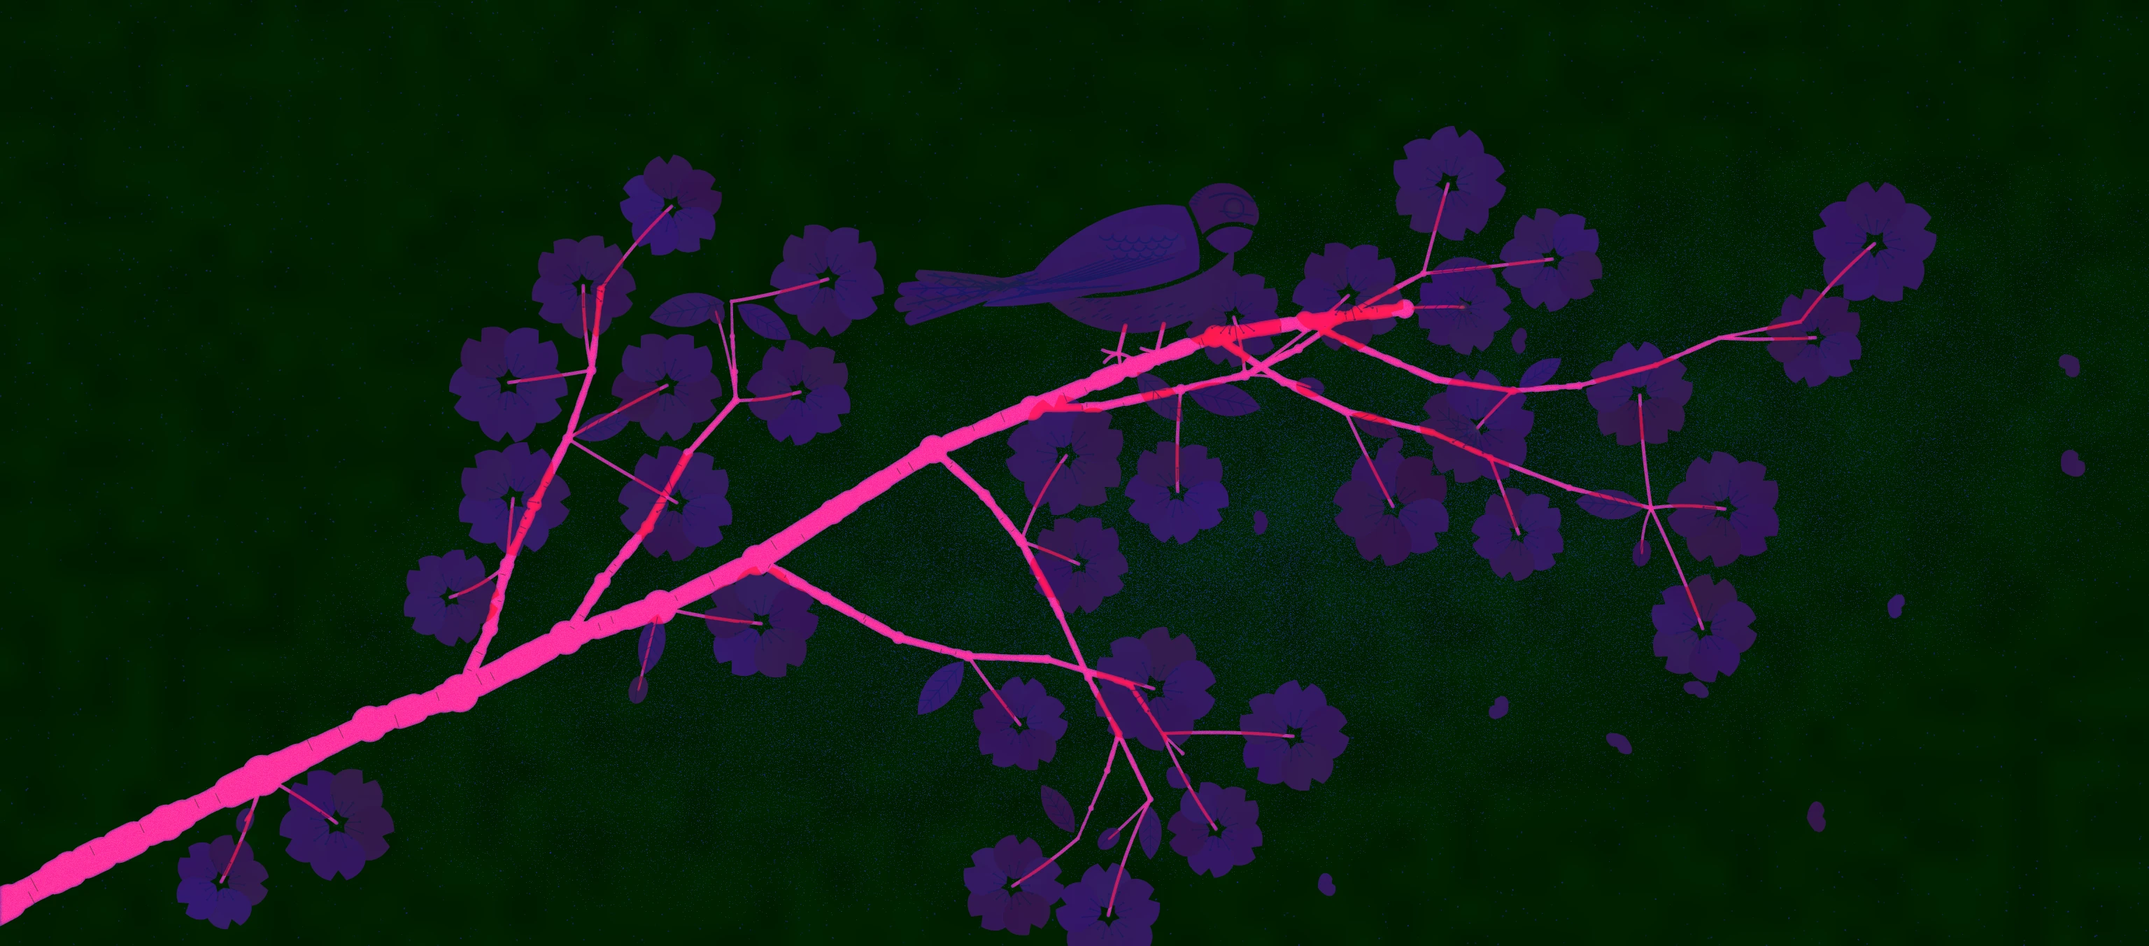
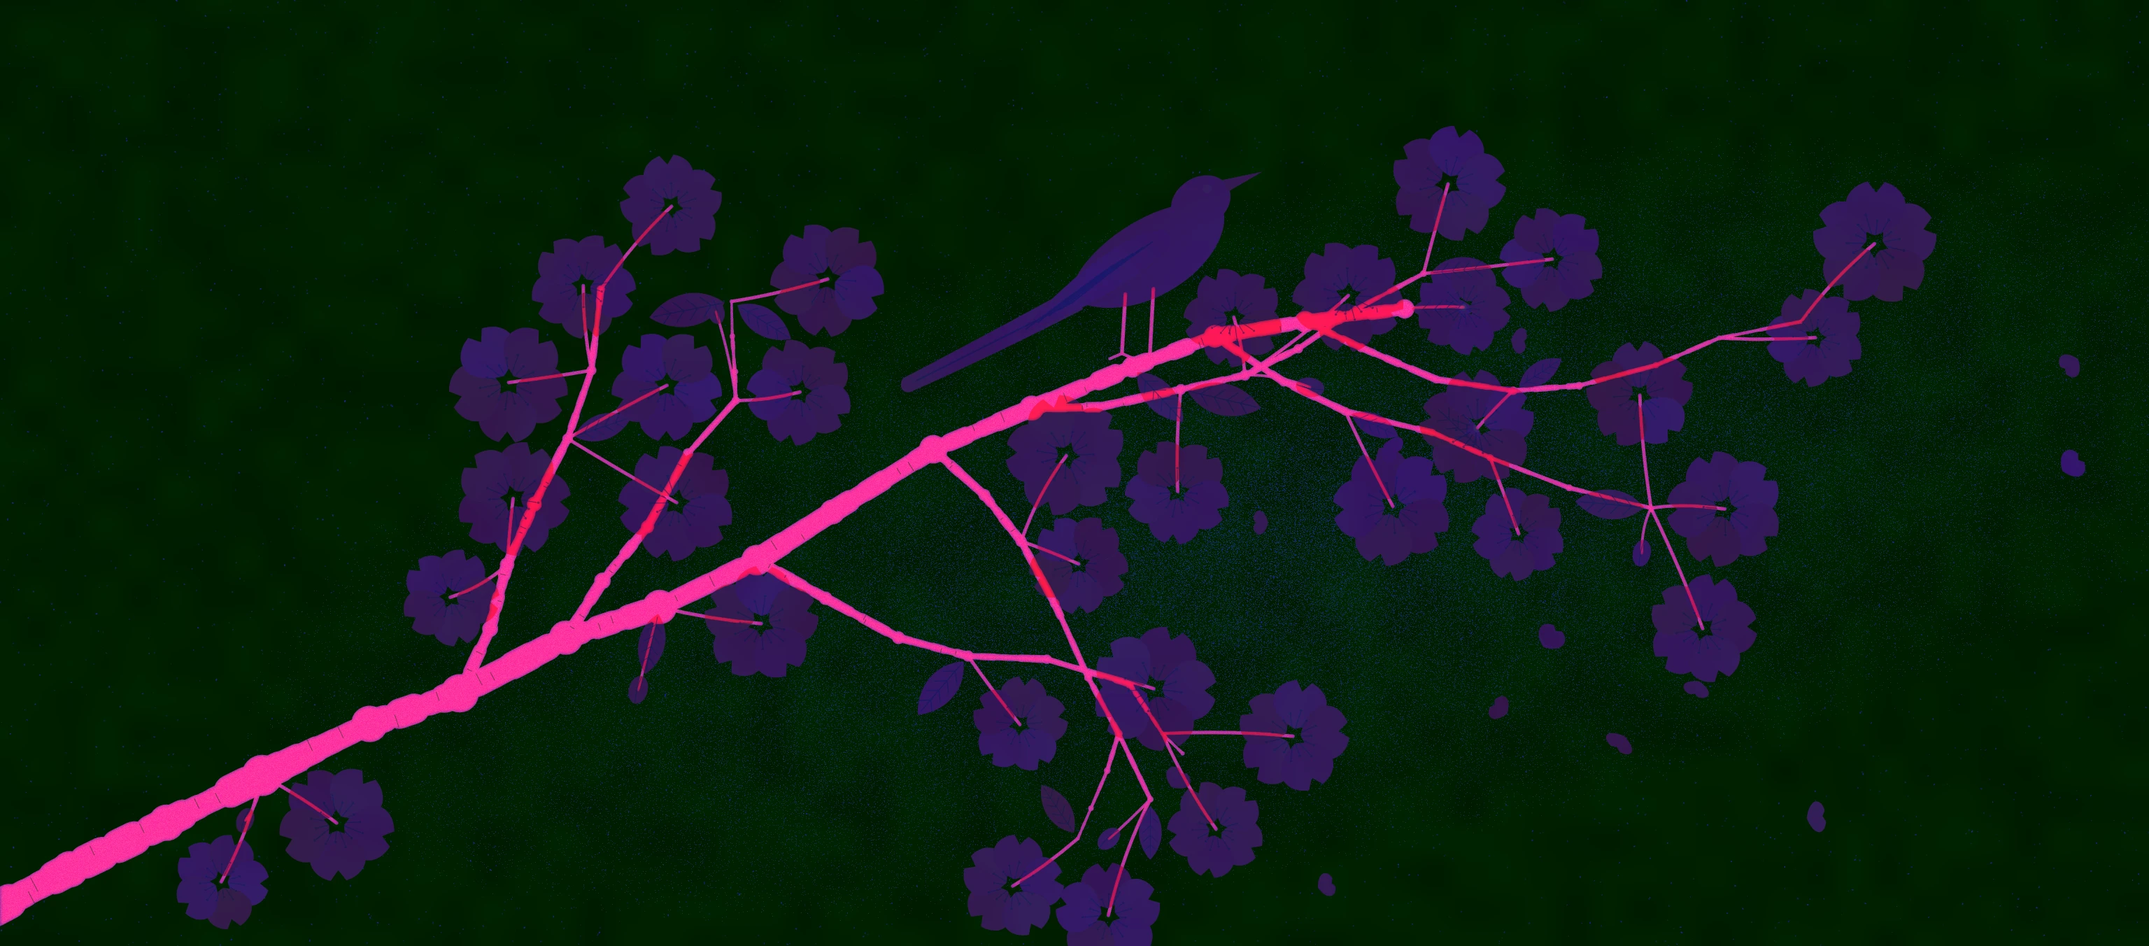
将棋 山桜盤：鶯を螺鈿らしい細身のシルエットに（大きな貝数片、彫りは控えめ）
Claude-Session: https://claude.ai/code/session_01EiWRAXZcgDnoypvsbtaRDZ

diff --git a/atlas/tools/shogi-tex.html b/atlas/tools/shogi-tex.html
@@ -661,45 +661,22 @@
     return P;
   }
   // 鶯: plump body, head, wing and tail as separate shell pieces, an eye and beak in black, engraved feathers
-  function uguisu(m, x, y, s, dir, mk) {   // (2026-11-13, the user: 本物らしく) a bush warbler perched: every part its own cut of shell —
-    // the head, the back, the pale throat and belly, the wing in three rows (coverts, secondaries, primaries), the tail feather by
-    // feather — and the plumage engraved (毛彫り): scalloped coverts, the vanes of the long feathers, the brow line, ticks on the
-    // breast; the eye and the slender bill in black lacquer; the legs and toes in gold on the bough (mk: the 蒔絵 masks)
-    const T = (g, f) => { g.save(); g.translate(x, y); g.scale(dir * s, s); f(g); g.restore(); };
+  function uguisu(m, x, y, s, dir, mk) {   // (2026-11-13 v3, the user's reference: 螺鈿の鶯) a slender warbler cut from a few large pieces of shell —
+    // the silhouette and the shell's own play of colour carry it: head and body one piece, the folded wing, the long narrow tail, a fine
+    // bill; perched with its head raised, the tail hanging below the bough. Only a little engraving (the wing's feathers, the tail's shaft);
+    // the eye a dot of black lacquer; thin gold legs (mk: the 蒔絵 masks)
+    const TILT = -.42, T = (g, f) => { g.save(); g.translate(x, y); g.scale(dir * s, s); g.rotate(TILT); f(g); g.restore(); };
     const P = (kind, f) => piece(m, kind, g => T(g, f));
-    // tail: four feathers fanning a little, the outer ones shorter
-    [[-128, 30, 7], [-134, 22, 7.5], [-132, 13, 7], [-122, 5, 6]].forEach(([tx, ty, w], i) => P(2, g => { const bx = -50, by = 4 + i * 3.4; g.beginPath(); g.moveTo(bx, by - 3); g.quadraticCurveTo((bx + tx) / 2, (by + ty) / 2 - w, tx, ty - w * .5); g.quadraticCurveTo(tx - 5, ty + 1, tx + 1, ty + w * .6); g.quadraticCurveTo((bx + tx) / 2, (by + ty) / 2 + w * .8, bx, by + 3.4); g.closePath(); }));
-    // the pale underside: throat, breast, belly, under-tail
-    P(4, g => { g.beginPath(); g.moveTo(58, -10); g.bezierCurveTo(60, 12, 44, 34, 8, 38); g.bezierCurveTo(-18, 40, -40, 30, -52, 16); g.bezierCurveTo(-30, 20, 10, 20, 40, 4); g.bezierCurveTo(48, 0, 54, -6, 58, -10); g.closePath(); });
-    // the back and flank
-    P(2, g => { g.beginPath(); g.moveTo(30, -34); g.bezierCurveTo(4, -40, -34, -24, -56, 2); g.bezierCurveTo(-56, 8, -54, 12, -50, 14); g.bezierCurveTo(-28, 17, 10, 17, 38, 2); g.bezierCurveTo(40, -10, 36, -24, 30, -34); g.closePath(); });
-    // the head: crown and nape, the cheek below the eye a separate paler piece
-    P(2, g => { g.beginPath(); g.moveTo(32, -36); g.bezierCurveTo(40, -52, 66, -52, 72, -32); g.bezierCurveTo(73, -28, 72, -25, 70, -23); g.bezierCurveTo(60, -27, 48, -26, 40, -18); g.bezierCurveTo(38, -24, 35, -30, 32, -36); g.closePath(); });
-    P(4, g => { g.beginPath(); g.moveTo(42, -16); g.bezierCurveTo(50, -24, 61, -24, 69, -20); g.bezierCurveTo(68, -14, 64, -10, 59, -8); g.bezierCurveTo(52, -6, 46, -10, 42, -16); g.closePath(); });
-    // the folded wing: coverts, secondaries, primaries
-    P(2, g => { g.beginPath(); g.moveTo(30, -16); g.bezierCurveTo(14, -30, -12, -24, -20, -10); g.bezierCurveTo(-10, -2, 14, -2, 31, -10); g.closePath(); });
-    P(2, g => { g.beginPath(); g.moveTo(-22, -8); g.bezierCurveTo(-34, -6, -48, 0, -56, 8); g.bezierCurveTo(-40, 12, -8, 10, 30, -7); g.bezierCurveTo(12, 0, -8, 0, -22, -8); g.closePath(); });
-    P(2, g => { g.beginPath(); g.moveTo(-58, 10); g.bezierCurveTo(-70, 12, -80, 17, -86, 23); g.bezierCurveTo(-66, 24, -30, 20, 2, 9); g.bezierCurveTo(-20, 14, -42, 14, -58, 10); g.closePath(); });
-    // black lacquer: the eye, the bill (slender, a little open line), the claws' shadow under the belly
-    const d = ctx(m.dark); d.fillStyle = d.strokeStyle = '#fff'; T(d, g => { g.beginPath(); g.arc(58, -33, 3.6, 0, 7); g.fill();
-      g.beginPath(); g.moveTo(71, -31); g.quadraticCurveTo(82, -31, 92, -27); g.quadraticCurveTo(82, -25, 71, -24.5); g.closePath(); g.fill(); });
-    const e = ctx(m.shell); e.fillStyle = '#fff'; T(e, g => { g.beginPath(); g.arc(57.2, -34, 1.1, 0, 7); g.fill(); });   // the light in the eye
-    // 毛彫り
-    const c = ctx(m.cut); c.strokeStyle = c.fillStyle = '#fff'; c.lineCap = 'round'; T(c, g => {
-      g.lineWidth = 1.0; g.beginPath(); g.arc(58, -33, 5.6, 0, 7); g.stroke();                                                                  // the eye ring
-      g.lineWidth = 1.3; g.beginPath(); g.moveTo(44, -39); g.quadraticCurveTo(56, -45, 69, -37); g.stroke();                                    // the pale brow, drawn as a line
-      g.lineWidth = .9; g.beginPath(); g.moveTo(50, -31.5); g.lineTo(69, -29); g.stroke();                                                       // the eye stripe
-      for (let r0 = 0; r0 < 3; r0++) for (let k = 0; k < 6 - r0; k++) { const cx = 22 - k * 7.4 - r0 * 3.4, cy = -17 + r0 * 4.6 - Math.abs(k - 2.5) * .9; g.beginPath(); g.arc(cx, cy, 4.3, .25, Math.PI - .5); g.stroke(); }   // scalloped coverts
-      for (let k = 0; k < 7; k++) { const t = k / 6; g.beginPath(); g.moveTo(24 - t * 40, -5 + t * 1.5); g.quadraticCurveTo(-4 - t * 38, 4 + t * 2, -30 - t * 26, 9 + t * 1.2); g.stroke(); }                       // secondaries' vanes
-      for (let k = 0; k < 5; k++) { const t = k / 4; g.beginPath(); g.moveTo(-6 - t * 40, 11 + t * 1.5); g.lineTo(-58 - t * 26, 14.5 + t * 7); g.stroke(); }                                                     // primaries
-      [[-128, 30], [-134, 22], [-132, 13], [-122, 5]].forEach(([tx, ty], i) => { const bx = -50, by = 4 + i * 3.4; g.beginPath(); g.moveTo(bx - 4, by); g.lineTo(tx + 5, ty); g.stroke();                           // tail shafts and barbs
-        for (let q = 1; q < 7; q++) { const px = bx + (tx - bx) * q / 7.4, py = by + (ty - by) * q / 7.4; g.beginPath(); g.moveTo(px, py); g.lineTo(px - 5, py - 2.4); g.moveTo(px, py); g.lineTo(px - 4.4, py + 3); g.stroke(); } });
-      g.lineWidth = .8; for (let k = 0; k < 26; k++) { const u = hash(k, 3, 77), v = hash(k, 9, 78), px = -34 + u * 80, py = 22 + v * 12 - Math.abs(px - 8) * .12; g.beginPath(); g.moveTo(px, py); g.lineTo(px - 3.2, py + 1.5); g.stroke(); }   // soft ticks on the breast and belly
-      for (let k = 0; k < 9; k++) { const a = Math.PI * 1.05 + k * .13; g.beginPath(); g.moveTo(52 + Math.cos(a) * 15, -33 + Math.sin(a) * 15); g.lineTo(52 + Math.cos(a) * 19, -33 + Math.sin(a) * 19); g.stroke(); }                 // crown feathers
-    });
-    // the legs and toes on the bough, in gold
-    if (mk) { const l = G(mk, 'raised'); T(l, g => { g.lineCap = 'round'; [[-6, 0], [16, -1]].forEach(([lx, ly]) => { g.lineWidth = 2.6; g.beginPath(); g.moveTo(lx + 2, 34 + ly); g.lineTo(lx - 2, 50 + ly); g.stroke();
-        g.lineWidth = 2; [[9, 4], [1, 7], [-8, 5], [-9, -2]].forEach(([tx, ty]) => { g.beginPath(); g.moveTo(lx - 2, 50 + ly); g.quadraticCurveTo(lx - 2 + tx * .6, 50 + ly + ty * .2, lx - 2 + tx, 50 + ly + ty); g.stroke(); }); }); }); }
+    P(2, g => { g.beginPath(); g.moveTo(-34, -3); g.bezierCurveTo(-70, 0, -112, 3, -146, 5); g.bezierCurveTo(-150, 8, -150, 12, -146, 14); g.bezierCurveTo(-110, 14, -70, 13, -36, 11); g.closePath(); });   // the tail
+    P(2, g => { g.beginPath(); g.moveTo(-40, 2); g.bezierCurveTo(-30, -16, 6, -26, 34, -22); g.bezierCurveTo(40, -34, 62, -36, 68, -22); g.bezierCurveTo(70, -15, 66, -9, 60, -6); g.bezierCurveTo(56, 8, 34, 22, 6, 22); g.bezierCurveTo(-14, 22, -32, 14, -40, 2); g.closePath(); });   // head and body
+    P(1, g => { g.beginPath(); g.moveTo(26, -12); g.bezierCurveTo(4, -20, -30, -10, -78, 9); g.bezierCurveTo(-46, 12, -6, 10, 22, 0); g.bezierCurveTo(27, -3, 28, -8, 26, -12); g.closePath(); });   // the folded wing (a paler, more silvery shell)
+    P(4, g => { g.beginPath(); g.moveTo(67, -24); g.lineTo(90, -19); g.lineTo(67, -16.5); g.closePath(); });   // the bill
+    const d = ctx(m.dark); d.fillStyle = '#fff'; T(d, g => { g.beginPath(); g.arc(57, -23, 2.6, 0, 7); g.fill(); });
+    const c = ctx(m.cut); c.strokeStyle = '#fff'; c.lineCap = 'round'; T(c, g => { g.lineWidth = .8;
+      for (let k = 0; k < 5; k++) { const t = k / 4; g.beginPath(); g.moveTo(16 - t * 26, -8 + t * 3); g.quadraticCurveTo(-14 - t * 26, -2 + t * 3, -40 - t * 30, 5 + t * 3); g.stroke(); }   // the wing's long feathers
+      g.beginPath(); g.moveTo(-40, 5); g.lineTo(-140, 9.5); g.stroke(); });                                                                                                                   // the tail's shaft
+    if (mk) { const l = G(mk, 'raised'); l.lineCap = 'round'; l.lineWidth = 2.2 * s; [[-4, 16], [12, 13]].forEach(([lx, ly]) => { const X0 = x + dir * lx * s; l.beginPath(); l.moveTo(X0, y + ly * s); l.lineTo(X0 - dir * 2 * s, y + 50 * s); l.stroke();
+        l.lineWidth = 1.7 * s; [[7, 3], [-7, 3]].forEach(([tx, ty]) => { l.beginPath(); l.moveTo(X0 - dir * 2 * s, y + 50 * s); l.lineTo(X0 + dir * (tx - 2) * s, y + (50 + ty) * s); l.stroke(); }); l.lineWidth = 2.2 * s; }); }
   }
   function goldLines(m, W, H, y0, n, s) { const g = ctx(m.flat); g.strokeStyle = '#fff'; g.lineCap = 'round';
     for (let k = 0; k < n; k++) { g.lineWidth = (k === 0 ? 7 : 3.5) * W / 3072; g.beginPath(); for (let x = -10; x <= W + 10; x += 8) { const y = y0 + k * 16 * W / 3072 + (s < 0 ? Math.sin(x / W * Math.PI * 2) * H * .05 + Math.sin(x / W * Math.PI * 6) * H * .01 : Math.sin(x / W * 4.2 + s) * H * .06 + Math.sin(x / W * 11 + s * 2) * H * .012); /* (s < 0: whole waves, at y0 on both edges — the line runs on round the board's four faces, 2026-11-12) */ x < 0 ? g.moveTo(x, y) : g.lineTo(x, y); } g.stroke(); } }
@@ -796,7 +773,7 @@
           return Math.max(0, H * .1 - top) + Math.max(0, right - W * .92) + Math.max(0, W * .6 - right) + Math.max(0, bot - H * .97) + Math.max(0, 18 - P.length) * 40; };
         { let best = 0, bs = 1e9; for (let t = 0; t < 80; t++) { const v = tryIt(61 + t * 7); if (v < bs) { bs = v; best = 61 + t * 7; } if (!v) break; } if (bs) tryIt(best); }
         // the 鶯 sits on the bough, where it is barest
-        { const bs = 2.5 * sc, pts = [[0, -50], [55, -80], [-60, -40], [-110, -30], [-135, -25]], far = j => Math.min(...pts.map(([ox, oy]) => Math.min(...P.map(([px, py, pr]) => Math.hypot(j[0] + ox * bs - px, j[1] + oy * bs - py) - pr)))), C = J.filter(j => j[0] > W * .16 && j[0] < W * .8), bb = C.sort((p1, p2) => far(p2) - far(p1))[0]; if (bb) uguisu(m, bb[0], bb[1] - bb[2] * .45 - 53 * bs, bs, 1, mk); }   // (clear of the blossoms from bill to tail tip)
+        { const bs = 2.5 * sc, pts = [[0, -50], [50, -95], [75, -100], [-60, -20], [-100, 5], [-135, 20]], far = j => Math.min(...pts.map(([ox, oy]) => Math.min(...P.map(([px, py, pr]) => Math.hypot(j[0] + ox * bs - px, j[1] + oy * bs - py) - pr)))), C = J.filter(j => j[0] > W * .16 && j[0] < W * .8), bb = C.sort((p1, p2) => far(p2) - far(p1))[0]; if (bb) uguisu(m, bb[0], bb[1] - bb[2] * .45 - 53 * bs, bs, 1, mk); }   // (clear of the blossoms from bill to tail tip)
         for (let k = 0; k < 12; k++) rFall(m, R(W * .5, W * .97), R(H * .35, H * .94), R(26, 38) * sc, R(0, 6.3));
         nashiji(mk, W, H, 5000);
       } else {

diff --git a/atlas/lazy.js b/atlas/lazy.js
@@ -5,7 +5,7 @@
      AtlasLazy.has3D(id) / hasPlay(id) / hasRules(id) — known before loading; AtlasLazy.loaded(id) */
 (function () {
 'use strict';
-const G = {"reversi": ["games/reversi.js?v=52", "rules/reversi.js?v=14"], "shogi": ["models/shogi.js?v=97", "games/shogi-play.js?v=41", "games/shogi.js?v=16", "rules/shogi.js?v=21"], "chess": ["models/chess.js?v=16", "games/chess.js?v=17", "rules/chess.js?v=7"], "backgammon": ["models/backgammon.js?v=121", "games/backgammon.js?v=23", "rules/backgammon.js?v=11"], "gomoku": ["models/goban.js?v=15", "games/gomoku.js?v=13", "rules/gomoku.js?v=9"], "go": ["models/goban.js?v=15", "games/go.js?v=7", "rules/go.js?v=7"], "hex": ["models/goban.js?v=15", "models/hex.js?v=2", "games/hex.js?v=6", "rules/hex.js?v=6"], "tafl": ["games/tafl.js?v=15", "rules/tafl.js?v=7"], "xiangqi": ["models/xiangqi.js?v=4", "games/xiangqi.js?v=14", "rules/xiangqi.js?v=6"], "janggi": ["models/xiangqi.js?v=4", "models/janggi.js?v=3", "games/janggi.js?v=6", "rules/janggi.js?v=2"], "checkers": ["models/checkers.js?v=17", "games/checkers.js?v=8", "rules/checkers.js?v=4"], "ugolki": ["models/checkers.js?v=17", "models/ugolki.js?v=4", "games/ugolki.js?v=10", "rules/ugolki.js?v=8"], "morris": ["models/morris.js?v=7", "games/morris-pieces.js?v=2", "games/morris.js?v=7", "rules/morris.js?v=5"], "connect4": ["models/connect4.js?v=5", "games/connect4-tiles.js?v=1", "games/connect4.js?v=5", "rules/connect4.js?v=3"], "mancala": ["models/mancala.js?v=5", "games/mancala.js?v=10", "rules/mancala.js?v=4"], "dots": ["models/dots.js?v=4", "games/dots.js?v=9", "rules/dots.js?v=3"], "ur": ["models/ur-dice.js?v=2", "models/ur.js?v=5", "games/ur-kit.js?v=15", "games/ur.js?v=11", "rules/ur.js?v=16"], "fanorona": ["models/fanorona.js?v=4", "games/fanorona.js?v=6", "rules/fanorona.js?v=8"], "konane": ["models/konane.js?v=7", "games/konane.js?v=13", "rules/konane.js?v=5"], "amazons": ["models/amazons.js?v=7", "games/amazons.js?v=10", "rules/amazons.js?v=5"], "senet": ["models/ur-dice.js?v=2", "models/senet.js?v=10", "games/senet-kit.js?v=5", "games/senet.js?v=16", "rules/senet.js?v=8"], "agon": ["models/agon.js?v=4", "games/agon.js?v=12", "rules/agon.js?v=5"], "alquerque": ["models/alquerque.js?v=3", "rules/alquerque.js?v=6"], "ludo": ["../ludo/engine.js?v=3", "../ludo/house.js?v=7", "../ludo/board2d.js?v=7", "../ludo/board-art.js?v=3", "models/ludo.js?v=10", "games/ludo.js?v=28", "rules/ludo.js?v=3"], "carrom": ["../carrom/engine.js?v=7", "models/carrom.js?v=18", "games/carrom.js?v=38", "rules/carrom.js?v=8"], "crokinole": ["../carrom/engine.js?v=7", "games/carrom.js?v=38", "../crokinole/engine.js?v=4", "models/crokinole.js?v=13", "games/crokinole.js?v=15", "rules/crokinole.js?v=4"], "hockey": ["../hockey/engine.js?v=15", "models/hockey.js?v=8", "games/hockey.js?v=30", "rules/hockey.js?v=7"], "shanghai": ["games/shanghai-core.js?v=1", "games/shanghai-i18n.js?v=1", "models/shanghai.js?v=1", "games/shanghai.js?v=1"], "peg": ["../peg/engine.js?v=1", "../peg/i18n.js?v=7", "models/peg.js?v=21", "games/peg.js?v=4", "rules/peg.js?v=4"]};
+const G = {"reversi": ["games/reversi.js?v=52", "rules/reversi.js?v=14"], "shogi": ["models/shogi.js?v=98", "games/shogi-play.js?v=41", "games/shogi.js?v=16", "rules/shogi.js?v=21"], "chess": ["models/chess.js?v=16", "games/chess.js?v=17", "rules/chess.js?v=7"], "backgammon": ["models/backgammon.js?v=121", "games/backgammon.js?v=23", "rules/backgammon.js?v=11"], "gomoku": ["models/goban.js?v=15", "games/gomoku.js?v=13", "rules/gomoku.js?v=9"], "go": ["models/goban.js?v=15", "games/go.js?v=7", "rules/go.js?v=7"], "hex": ["models/goban.js?v=15", "models/hex.js?v=2", "games/hex.js?v=6", "rules/hex.js?v=6"], "tafl": ["games/tafl.js?v=15", "rules/tafl.js?v=7"], "xiangqi": ["models/xiangqi.js?v=4", "games/xiangqi.js?v=14", "rules/xiangqi.js?v=6"], "janggi": ["models/xiangqi.js?v=4", "models/janggi.js?v=3", "games/janggi.js?v=6", "rules/janggi.js?v=2"], "checkers": ["models/checkers.js?v=17", "games/checkers.js?v=8", "rules/checkers.js?v=4"], "ugolki": ["models/checkers.js?v=17", "models/ugolki.js?v=4", "games/ugolki.js?v=10", "rules/ugolki.js?v=8"], "morris": ["models/morris.js?v=7", "games/morris-pieces.js?v=2", "games/morris.js?v=7", "rules/morris.js?v=5"], "connect4": ["models/connect4.js?v=5", "games/connect4-tiles.js?v=1", "games/connect4.js?v=5", "rules/connect4.js?v=3"], "mancala": ["models/mancala.js?v=5", "games/mancala.js?v=10", "rules/mancala.js?v=4"], "dots": ["models/dots.js?v=4", "games/dots.js?v=9", "rules/dots.js?v=3"], "ur": ["models/ur-dice.js?v=2", "models/ur.js?v=5", "games/ur-kit.js?v=15", "games/ur.js?v=11", "rules/ur.js?v=16"], "fanorona": ["models/fanorona.js?v=4", "games/fanorona.js?v=6", "rules/fanorona.js?v=8"], "konane": ["models/konane.js?v=7", "games/konane.js?v=13", "rules/konane.js?v=5"], "amazons": ["models/amazons.js?v=7", "games/amazons.js?v=10", "rules/amazons.js?v=5"], "senet": ["models/ur-dice.js?v=2", "models/senet.js?v=10", "games/senet-kit.js?v=5", "games/senet.js?v=16", "rules/senet.js?v=8"], "agon": ["models/agon.js?v=4", "games/agon.js?v=12", "rules/agon.js?v=5"], "alquerque": ["models/alquerque.js?v=3", "rules/alquerque.js?v=6"], "ludo": ["../ludo/engine.js?v=3", "../ludo/house.js?v=7", "../ludo/board2d.js?v=7", "../ludo/board-art.js?v=3", "models/ludo.js?v=10", "games/ludo.js?v=28", "rules/ludo.js?v=3"], "carrom": ["../carrom/engine.js?v=7", "models/carrom.js?v=18", "games/carrom.js?v=38", "rules/carrom.js?v=8"], "crokinole": ["../carrom/engine.js?v=7", "games/carrom.js?v=38", "../crokinole/engine.js?v=4", "models/crokinole.js?v=13", "games/crokinole.js?v=15", "rules/crokinole.js?v=4"], "hockey": ["../hockey/engine.js?v=15", "models/hockey.js?v=8", "games/hockey.js?v=30", "rules/hockey.js?v=7"], "shanghai": ["games/shanghai-core.js?v=1", "games/shanghai-i18n.js?v=1", "models/shanghai.js?v=1", "games/shanghai.js?v=1"], "peg": ["../peg/engine.js?v=1", "../peg/i18n.js?v=7", "models/peg.js?v=21", "games/peg.js?v=4", "rules/peg.js?v=4"]};
 const F = {"reversi": {"t3": true, "play": true, "rules": true}, "shogi": {"t3": true, "play": true, "rules": true}, "chess": {"t3": true, "play": true, "rules": true}, "backgammon": {"t3": true, "play": true, "rules": true}, "gomoku": {"t3": true, "play": true, "rules": true}, "go": {"t3": true, "play": true, "rules": true}, "hex": {"t3": true, "play": true, "rules": true}, "tafl": {"t3": true, "play": true, "rules": true}, "xiangqi": {"t3": true, "play": true, "rules": true}, "janggi": {"t3": true, "play": true, "rules": true}, "checkers": {"t3": true, "play": true, "rules": true}, "ugolki": {"t3": true, "play": true, "rules": true}, "morris": {"t3": true, "play": true, "rules": true}, "connect4": {"t3": true, "play": true, "rules": true}, "mancala": {"t3": true, "play": true, "rules": true}, "dots": {"t3": true, "play": true, "rules": true}, "ur": {"t3": true, "play": true, "rules": true}, "fanorona": {"t3": true, "play": true, "rules": true}, "konane": {"t3": true, "play": true, "rules": true}, "amazons": {"t3": true, "play": true, "rules": true}, "senet": {"t3": true, "play": true, "rules": true}, "agon": {"t3": true, "play": true, "rules": true}, "alquerque": {"t3": true, "play": false, "rules": true}, "ludo": {"t3": true, "play": true, "rules": true}, "carrom": {"t3": true, "play": true, "rules": true}, "crokinole": {"t3": true, "play": true, "rules": true}, "hockey": {"t3": true, "play": true, "rules": true}, "peg": {"t3": true, "play": true, "rules": true}, "shanghai": {"t3": true, "play": true, "rules": false}};
 const done = new Set(), loading = new Map(), ok = new Set();
 function load(src) {

diff --git a/shogi/index.html b/shogi/index.html
@@ -6777,7 +6777,7 @@ if (window.Online && Online.available) setInterval(() => { if (dock.on) chatStar
   const f = document.createElement('link'); f.rel = 'stylesheet'; f.href = 'https://fonts.googleapis.com/css2?family=RocknRoll+One&family=Zen+Maru+Gothic:wght@500;700;900&family=Fredoka:wght@600;700&display=swap'; document.head.appendChild(f);
   const load = src => new Promise((res, rej) => { const s = document.createElement('script'); s.src = src; s.onload = res; s.onerror = rej; document.body.appendChild(s); });
   if (window.AtlasLoading) { AtlasLoading.show(); setTimeout(() => AtlasLoading.hide(), 12000); }   // safety net
-  (/[?&]three=128\b/.test(location.search) ? load('https://cdnjs.cloudflare.com/ajax/libs/three.js/r128/three.min.js') : load('../atlas/vendor/three-r186.min.js?v=1').then(() => load('../atlas/vendor/three-compat.js?v=15'))).then(() => load('../atlas/img/tex/baked.js?v=2')).then(() => load('../atlas/table3d.js?v=164')).then(() => load('../atlas/tables3d.js?v=107')).then(() => load('../atlas/skin/common.js?v=104')).then(() => load('../atlas/models/shogi.js?v=97')).then(() => load('../atlas/skin/shogi.js?v=75'))
+  (/[?&]three=128\b/.test(location.search) ? load('https://cdnjs.cloudflare.com/ajax/libs/three.js/r128/three.min.js') : load('../atlas/vendor/three-r186.min.js?v=1').then(() => load('../atlas/vendor/three-compat.js?v=15'))).then(() => load('../atlas/img/tex/baked.js?v=2')).then(() => load('../atlas/table3d.js?v=164')).then(() => load('../atlas/tables3d.js?v=107')).then(() => load('../atlas/skin/common.js?v=104')).then(() => load('../atlas/models/shogi.js?v=98')).then(() => load('../atlas/skin/shogi.js?v=75'))
     .catch(() => { document.documentElement.classList.remove('atlas-skin'); if (window.AtlasLoading) AtlasLoading.hide(); });
 })();
 </script>

diff --git a/atlas/models/shogi.js b/atlas/models/shogi.js
@@ -200,7 +200,7 @@
     sakura: { top: 'top-sakura', side: 'sakura', stand: 'sakura', leg: ['#8a3a26', '#4a1c12'], bottom: 0x2a0806, line: 'rgba(48,20,10,.92)', raden: true },   // (v3: 朱溜 lacquer with 螺鈿 cherry blossoms and a 鶯)
   };
   const SH3 = (() => { try { return new URL('../../images/atlas/shogi3d/', (document.currentScript && document.currentScript.src) || location.href).href; } catch (e) { return '../images/atlas/shogi3d/'; } })();
-  const SH3V = '?v=15';
+  const SH3V = '?v=16';
   const lookOf = o => { const k = (o && o.look) || (X.BOARDS && X.BOARDS.shogi ? X.BOARDS.shogi.get() : 'kaya'); return LOOK[k] ? k : 'kaya'; };
   const imgs = {};
   function withImg(name, fn) {

diff --git a/atlas/index.html b/atlas/index.html
@@ -2260,7 +2260,7 @@ window.AtlasRgdTimer = function (btn, ms, alive) {
   }, 60);
 };</script>
 <script src="../shared/tapword.js?v=1"></script>
-<script src="lazy.js?v=189"></script>
+<script src="lazy.js?v=190"></script>
 <script src="puzzle-lines.js?v=1"></script>
 <script src="puzzles.js?v=22"></script>
 <script src="lessons3d.js?v=14"></script>
